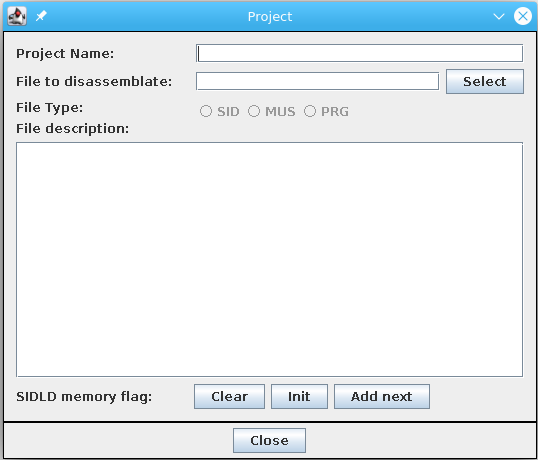
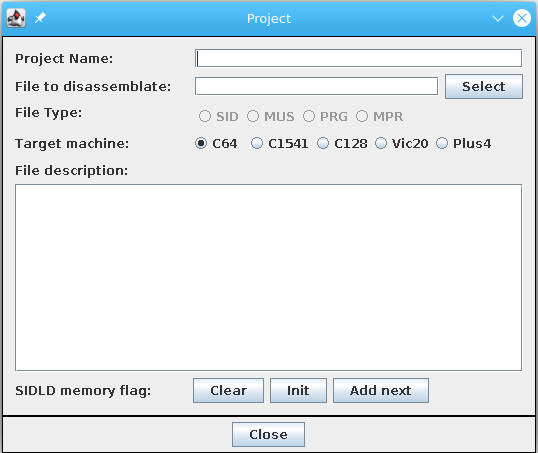
Update help

Changed region(s): [[0.0, 0.0, 1.0, 1.0], [0.3569, 0.3091, 0.9219, 0.34]]

diff --git a/src/sw_emulator/swing/help/file.html b/src/sw_emulator/swing/help/file.html
@@ -15,7 +15,18 @@
   The project windows gives you the ability to insert:
     <ul>
      <li><b>Project name:</b> a name to give to the project</li>
-     <li><b>File to disassemblate:</b> it let you choose the file that you want to disassemblate. Onve done, you will see the type (SID, MUS, PRG) detected and some information extracted from the file</li>
+     <li><b>File to disassemblate:</b> it let you choose the file that you want to disassemblate. Once done, you will see the type (SID, MUS, PRG, MPG) detected and some information extracted from the file</li>
+     <li><b>Target maschine:</b> for program file you can choose the target machine to use in disassembler from:
+         <ul>
+             <li><b>C64</b></li>
+             <li><b>C1541</b></li>
+             <li><b>C128</b></li>
+             <li><b>VIC20</b></li>
+             <li><b>PLUS4</b></li>
+         </ul>
+         This selection will activate specific comments to know memory locations of each machine. 
+         In Option panel you can select for each machine what range of memory location must be commented automatically.
+     </li>
      <li><b>SIDLD memory flags:</b> this file were generated by some modified version of SidLength Detector wrote by Michael Schwendt and that myself patched into libsidplay in order to create such memory dump.<br>
          The idea were simple: let play a tune of a SID and collect if a given address is of a code or a data or never utilizated. With those flags you can achieve two important step:
            <ol>
@@ -38,7 +49,29 @@
   <p>Save the project to the current .dis file being in use.</p>
    <h2>Save as project</h2>
   <p>Save the project to a .dis file that you choose or create as new.</p> 
-    <h2>Exit</h2>
+  
+  <h2>Apply SIDlD memory flags to memory</h2>
+  <p>If you have associated some SIDLD file to the project, here you can apply to the memory location, so you will get the code/data part compiled in automatic.
+   The program takes your confirmation before going on.
+  </p>
+  
+   <h2>Create a MPR archive</h2>
+   <p>The MPR is a custom files that contains many PRGs inside, so you can disassembly all files together.<br>
+       This is usefull when you have some files from disk or tape that load itself in different part of the memory: you can so disassembly the memory with all the programs inside.<br>
+       This means that one program should start and end before the starting of another peaces, otherwise the common memory is filled with the last read one.<br>
+       For creating the MPR archive you should select all PRG files with CRTL+click from the file selector, then you should insert the name of resulting MPR archive.
+   </p>  
+   
+   <h2>Collaborative merge</h2> 
+   Suppose you are working in a team for disassembly for example a game. One people will follow the music, one people the graphics, and so on.<br>
+   You need to create the project for that program and then give a copy to each people of the team to work on.<br>
+   When all people has worked to their paeace, you need to use this function to merge your work with all the other. Your work is so the primary and all the other the secondary.
+   <br>
+   The idea is that if you apply somethins to a memory location (make labels, comments, data/code assigment and so on) this will not be altered by secondary files, 
+   otherwise the value of secodary file being imported will be used.<br>   
+   The resulting project file is now the merge of all works and you can see all contribution together.
+   
+  <h2>Exit</h2>
   <p>This exit the application. Note that you cannot exit from the application using the X icon (to prevent you lose your works by a wrong click)</p>  
    <hr>
     <p align="center"><a href="./index.html"><img src="back.png" alt="Back" width="51" height="23" align="middle" border="0"></a></p>

diff --git a/src/sw_emulator/swing/help/option.html b/src/sw_emulator/swing/help/option.html
@@ -56,17 +56,6 @@
  </ul>
 </p>
 
-  <h2>Apply SIDlD memory flags to memory</h2>
-  <p>If you have associated some SIDLD file to the project, here you can apply to the memory location, so you will get the code/data part compiled in automatic.
-   The program takes your confirmation before going on.
-  </p>
-   <h2>Create a MPR archive</h2>
-   <p>The MPR is a custom files that contains many PRGs inside, so you can disassembly all files together.<br>
-       This is usefull when you have some files from disk or tape that load itself in different part of the memory: you can so disassembly the memory with all the programs inside.<br>
-       This means that one program should start and end before the starting of another peaces, otherwise the common memory is filled with the last read one.<br>
-       For creating the MPR archive you should select all PRG files with CRTL+click from the file selector, then you should insert the name of resulting MPR archive.
-   </p>
-
   <h2>View Project</h2>
  <p>This menu will open the dialog box used for creating the project. 
   Here you can still going to add other SIDLD files or changing the file to disassemblate.
